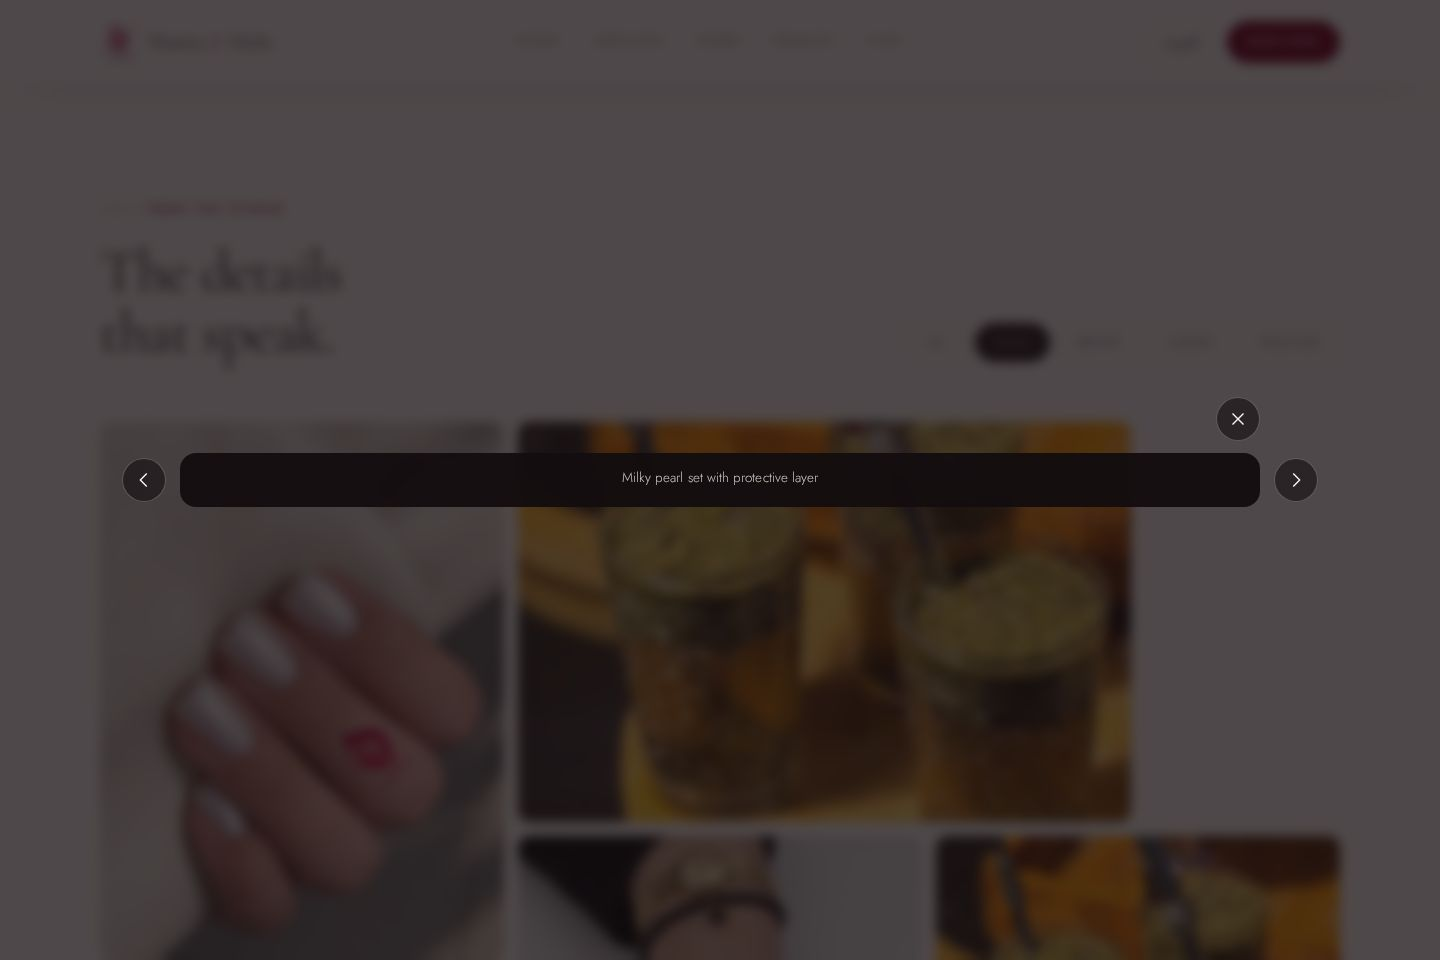
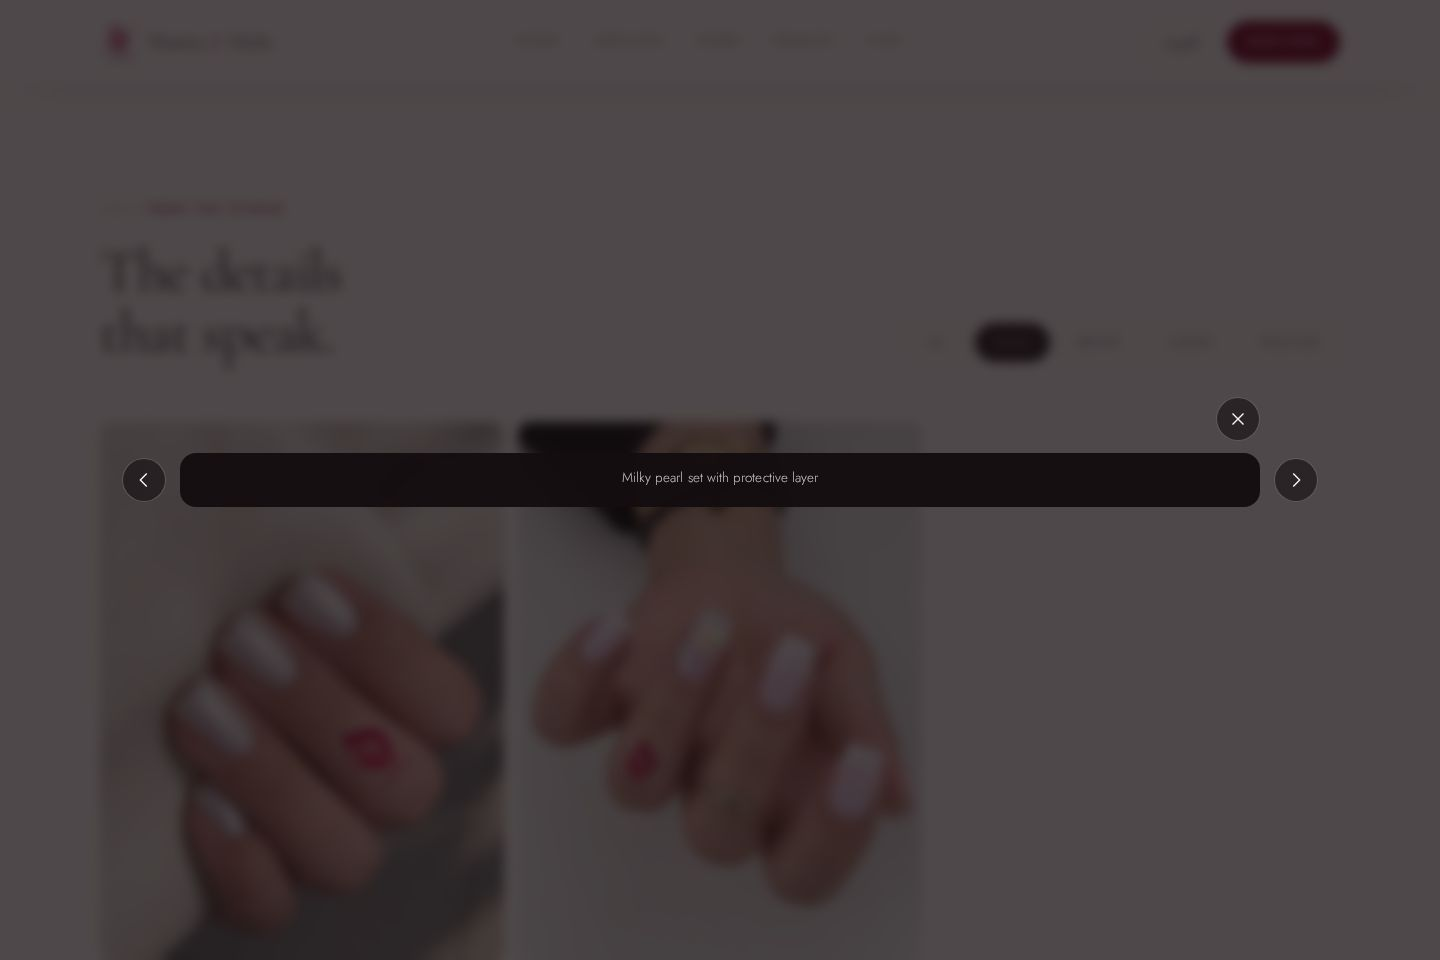
Replace gold nail images with foot/pedicure photos

Changed region(s): [[0.3438, 0.5312, 0.9375, 1.0], [0.4062, 0.4375, 0.8125, 0.4688]]

diff --git a/index.html b/index.html
@@ -308,9 +308,9 @@
           <span class="tile__tag" data-ar="حواجب">Brows</span>
         </button>
 
-        <button class="tile tile--wide reveal" type="button" data-cat="nails" data-cap-en="Gold glitter finish" data-cap-ar="لمسة جليتر ذهبي">
-          <img data-full="assets/img/work-gold-glitter-1100.webp" src="assets/img/work-gold-glitter-720.webp" width="720" height="720" loading="lazy" decoding="async" alt="Golden glitter nail polish">
-          <span class="tile__tag" data-ar="أظافر">Nails</span>
+        <button class="tile tile--wide reveal" type="button" data-cat="pedicure" data-cap-en="Foot nails, polished" data-cap-ar="أظافر قدم مصقولة">
+          <img data-full="assets/img/work-pedi-toe-812.webp" src="assets/img/work-pedi-toe-720.webp" width="720" height="720" loading="lazy" decoding="async" alt="Polished toenails">
+          <span class="tile__tag" data-ar="باديكير">Pedicure</span>
         </button>
 
         <button class="tile reveal" type="button" data-cat="lashes" data-cap-en="Lash lift and tint" data-cap-ar="قلب رموش مع صبغة">
@@ -343,9 +343,9 @@
           <span class="tile__tag" data-ar="باديكير">Pedicure</span>
         </button>
 
-        <button class="tile reveal" type="button" data-cat="nails" data-cap-en="Amber and gold nails" data-cap-ar="أظافر كهرمانية وذهبية">
-          <img data-full="assets/img/work-gold-mani-1100.webp" src="assets/img/work-gold-mani-720.webp" width="720" height="897" loading="lazy" decoding="async" alt="Amber gold manicure">
-          <span class="tile__tag" data-ar="أظافر">Nails</span>
+        <button class="tile reveal" type="button" data-cat="pedicure" data-cap-en="Soft pedicure finish" data-cap-ar="لمسة باديكير ناعمة">
+          <img data-full="assets/img/work-pedi-soft-1080.webp" src="assets/img/work-pedi-soft-720.webp" width="720" height="720" loading="lazy" decoding="async" alt="Soft pedicure finish">
+          <span class="tile__tag" data-ar="باديكير">Pedicure</span>
         </button>
 
         <button class="tile reveal" type="button" data-cat="brows" data-cap-en="Brow cleaning" data-cap-ar="تنظيف الحواجب">
@@ -385,9 +385,9 @@
         <a class="btn btn--light reveal" href="https://wa.me/963936628680" target="_blank" rel="noopener" data-ar="احجزي موعدك">Reserve your appointment</a>
       </div>
       <figure class="results__fig reveal">
-        <img src="assets/img/work-gold-glitter-720.webp" width="720" height="720" loading="lazy" decoding="async"
-             alt="Golden glitter nail polish, close up">
-        <figcaption data-ar="لمسة الجليتر الذهبي">The gold glitter finish</figcaption>
+        <img src="assets/img/work-pedi-jacuzzi-720.webp" width="720" height="720" loading="lazy" decoding="async"
+             alt="Jacuzzi pedicure, close up">
+        <figcaption data-ar="باديكير جاكوزي">Jacuzzi pedicure</figcaption>
       </figure>
     </div>
   </section>
